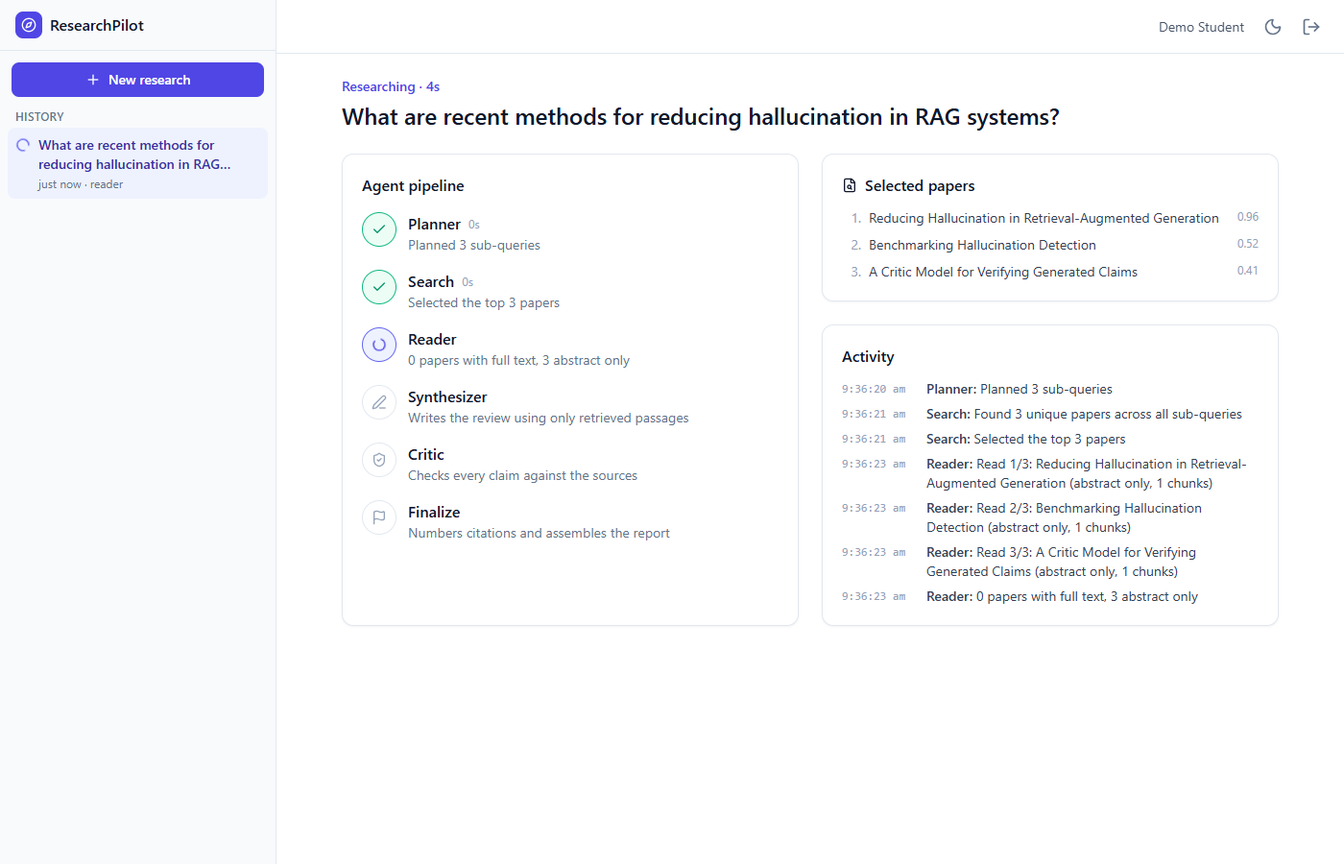
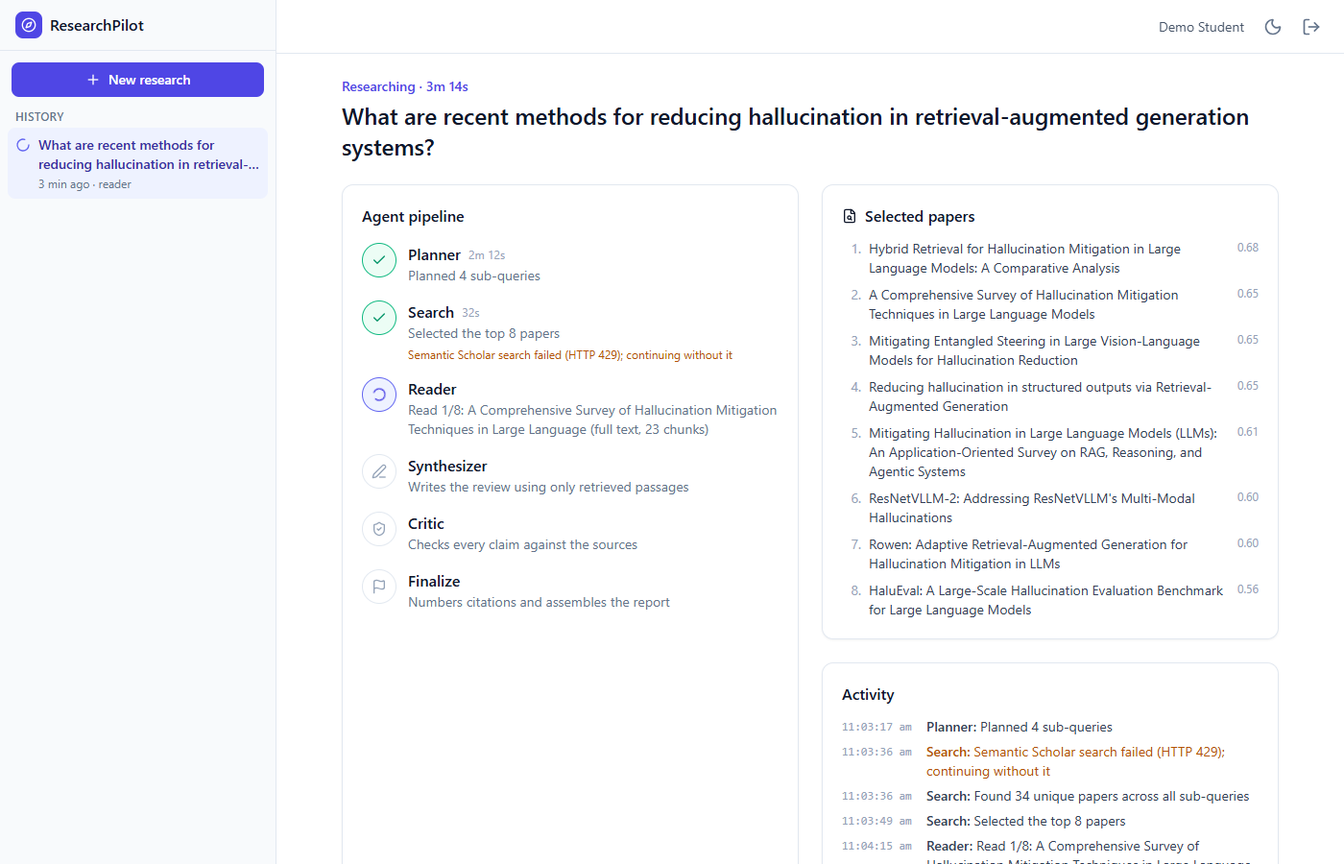
Add real-run screenshots, Gemma fallback and a consistent-model eval mode
- Replace the demo-data screenshots with a real free-tier Gemini run
  (8 arXiv papers, 37 claims checked, 89% supported, $0.00) and add its
  unedited Markdown export as docs/sample_report.md.
- Route gemma-* models to the Gemini backend and append gemma-4-31b-it
  to the free model pool; a Claude model without ANTHROPIC_API_KEY now
  fails fast with a configuration error.
- eval: --no-fallback pins every call to the chosen models, questions
  with failed model calls are recorded as incomplete (so --resume retries
  them), and the run stops cleanly once every model's daily quota is used.
- Store the fallback models in each run's settings snapshot.

diff --git a/eval/run_eval.py b/eval/run_eval.py
@@ -29,11 +29,11 @@ from pydantic import BaseModel, TypeAdapter
 from eval import EVAL_DIR
 from app.agents.graph import open_pipeline_context
 from app.config import Settings, get_settings
-from app.llm import LLM, LLMClient, LLMConfigurationError, LLMError
+from app.llm import LLM, QUOTAS, LLMClient, LLMConfigurationError, LLMError
 from app.logging_config import setup_logging
 from app.schemas import ResearchReport
 from app.services.session_store import settings_snapshot
-from eval.ablation import run_paired
+from eval.ablation import PairedRun, run_paired
 from eval.judges import judge_citations, judge_faithfulness, judge_relevance
 from eval.metrics import ArmResult, EvalRun, QuestionResult, arm_result, render_markdown, summarize
 
@@ -90,8 +90,27 @@ async def evaluate_arm(report: ResearchReport, context: Any, judge: LLM, judge_s
     return arm_result(report, citations, faithfulness, relevance, notes)
 
 
+LLM_FAILURE_MARKERS: tuple[str, ...] = ("summary extraction failed", "Critic failed", "Revision failed", "judge failed")
+
+
+def pool_exhausted(*settings_list: Settings) -> bool:
+    """True when every model configured for the pipeline and the judges has used up today's quota."""
+    models = {model for settings in settings_list for model in (settings.llm_model, *settings.llm_fallback_models)}
+    return all(QUOTAS.is_exhausted(model) for model in models)
+
+
+def llm_failures(paired: PairedRun, arms: Sequence[ArmResult]) -> list[str]:
+    """Pipeline warnings or judge notes showing that some model call failed (so the data is incomplete)."""
+    texts = [*paired.with_critic.warnings, *(note for arm in arms for note in arm.notes)]
+    return [text for text in texts if any(marker in text for marker in LLM_FAILURE_MARKERS)]
+
+
 async def evaluate_question(item: Question, settings: Settings, judge_settings: Settings) -> QuestionResult:
-    """Run the paired pipeline for one question and judge both arms."""
+    """Run the paired pipeline for one question and judge both arms.
+
+    A question whose data is incomplete because a model call failed (typically the free daily quota
+    running out) is recorded as an error, so ``--resume`` evaluates it again later.
+    """
     result = QuestionResult(id=item.id, topic=item.topic, question=item.question)
     judge = make_judge_llm(judge_settings)
     try:
@@ -101,6 +120,9 @@ async def evaluate_question(item: Question, settings: Settings, judge_settings: 
             result.without_critic = await evaluate_arm(paired.without_critic, context, judge, judge_settings)
             if not paired.draft_available:
                 result.with_critic.notes.append("no review was produced (no usable papers)")
+            failures = llm_failures(paired, [result.with_critic, result.without_critic])
+            if failures:
+                result.error = f"Incomplete - some model calls failed, re-run with --resume: {failures[0][:200]}"
     except LLMConfigurationError:
         raise
     except Exception as error:  # One broken question must not stop a multi-hour evaluation.
@@ -130,6 +152,14 @@ async def run_all(
         result = await evaluate_question(item, settings, judge_settings)
         run.questions = [existing for existing in run.questions if existing.id != item.id] + [result]
         save(run, output_dir)
+        if pool_exhausted(settings, judge_settings):
+            logger.warning(
+                "Every configured model has used up today's free quota. Stopping after %d of %d question(s); "
+                "run the same command with --resume after midnight Pacific time to continue.",
+                index,
+                len(questions),
+            )
+            break
         if result.error:
             logger.warning("[%d/%d] %s failed: %s", index, len(questions), item.id, result.error)
         elif result.with_critic and result.without_critic:
@@ -155,8 +185,13 @@ def parse_args(argv: Sequence[str] | None = None) -> argparse.Namespace:
     parser.add_argument("--output-dir", type=Path, default=EVAL_DIR, help="Where results.json/results.md go.")
     parser.add_argument("--limit", type=int, help="Only evaluate the first N questions.")
     parser.add_argument("--ids", help="Comma-separated question ids to evaluate, e.g. q01,q05.")
-    parser.add_argument("--pipeline-model", help="Claude model for the pipeline (default: LLM_MODEL).")
-    parser.add_argument("--judge-model", help="Claude model for the judges (default: the pipeline model).")
+    parser.add_argument("--pipeline-model", help="Model for the pipeline (default: LLM_MODEL).")
+    parser.add_argument("--judge-model", help="Model for the judges (default: the pipeline model).")
+    parser.add_argument(
+        "--no-fallback",
+        action="store_true",
+        help="Ignore LLM_FALLBACK_MODEL so every call uses exactly the chosen models (consistent measurements).",
+    )
     parser.add_argument("--top-n", type=int, help="Papers per question (default: TOP_N_PAPERS).")
     parser.add_argument("--resume", action="store_true", help="Skip questions already completed in results.json.")
     parser.add_argument("--yes", action="store_true", help="Do not ask for confirmation before spending API credit.")
@@ -185,6 +220,8 @@ def main(argv: Sequence[str] | None = None) -> int:
         overrides["llm_model"] = args.pipeline_model
     if args.top_n:
         overrides["top_n_papers"] = args.top_n
+    if args.no_fallback:
+        overrides["llm_fallback_model"] = None
     settings = base.model_copy(update=overrides) if overrides else base
     judge_settings = settings.model_copy(update={"llm_model": args.judge_model or settings.llm_model})
     setup_logging(settings.log_level)

diff --git a/backend/tests/test_eval.py b/backend/tests/test_eval.py
@@ -33,6 +33,7 @@ from eval.metrics import ArmResult, EvalRun, QuestionResult, render_markdown, su
 
 from app.agents.state import ClaimList, JudgementList, PipelineContext  # noqa: E402
 from app.config import Settings  # noqa: E402
+from app.llm import QUOTAS, LLMUnavailableError  # noqa: E402
 from app.services.vector_store import VectorStore  # noqa: E402
 from tests.builders import FALSE_SENTENCE_START, claims_handler, judgement_handler, make_context  # noqa: E402
 from tests.fakes import FakeLLM, prompt_text  # noqa: E402
@@ -246,6 +247,48 @@ def test_cli_writes_results_and_resumes(offline_eval: None, tmp_path: Path) -> N
 
     assert run_eval.main(["--limit", "2", "--yes", "--resume", "--output-dir", str(tmp_path)]) == 0
     assert len(json.loads((tmp_path / "results.json").read_text(encoding="utf-8"))["questions"]) == 2
+
+
+def test_incomplete_questions_are_marked_for_resume(
+    offline_eval: None, tmp_path: Path, monkeypatch: pytest.MonkeyPatch
+) -> None:
+    """If a judge call fails (e.g. quota ran out), the question is an error so --resume redoes it."""
+    failing_judge = judge_llm()
+    failing_judge.handlers[CitationVerdictList] = lambda call: LLMUnavailableError("every configured model used up")
+    monkeypatch.setattr(run_eval, "make_judge_llm", lambda settings: failing_judge)
+
+    assert run_eval.main(["--limit", "1", "--yes", "--output-dir", str(tmp_path)]) == 0
+
+    question = json.loads((tmp_path / "results.json").read_text(encoding="utf-8"))["questions"][0]
+    assert question["error"].startswith("Incomplete")
+    assert "citation judge failed" in question["error"]
+
+
+def test_evaluation_stops_when_every_model_is_out_of_quota(
+    offline_eval: None, tmp_path: Path, keyed_settings: Settings
+) -> None:
+    """Once the whole model pool is exhausted for the day, the runner stops instead of failing every question."""
+    QUOTAS.mark_exhausted(keyed_settings.llm_model)
+
+    assert run_eval.main(["--limit", "3", "--yes", "--output-dir", str(tmp_path)]) == 0
+
+    assert len(json.loads((tmp_path / "results.json").read_text(encoding="utf-8"))["questions"]) == 1
+
+
+def test_no_fallback_records_a_single_model(
+    offline_eval: None, tmp_path: Path, monkeypatch: pytest.MonkeyPatch
+) -> None:
+    """--no-fallback removes the model pool, and the saved settings show exactly which models were used."""
+    monkeypatch.setenv("LLM_FALLBACK_MODEL", "gemini-3.6-flash")
+    from app.config import get_settings
+
+    get_settings.cache_clear()
+    assert run_eval.main(["--limit", "1", "--yes", "--no-fallback", "--pipeline-model", "claude-sonnet-5",
+                          "--output-dir", str(tmp_path)]) == 0
+
+    data = json.loads((tmp_path / "results.json").read_text(encoding="utf-8"))
+    assert data["pipeline_model"] == "claude-sonnet-5"
+    assert data["settings"]["llm_fallback_models"] == []
 
 
 def test_cli_selects_questions_by_id(offline_eval: None, tmp_path: Path) -> None:

diff --git a/backend/app/llm.py b/backend/app/llm.py
@@ -36,7 +36,7 @@ import httpx
 import pydantic
 from pydantic import BaseModel
 
-from app.config import Effort, Settings, get_settings
+from app.config import GOOGLE_MODEL_PREFIXES, Effort, Settings, get_settings
 from app.services import http_utils
 from app.services.http_utils import RateLimiter
 
@@ -222,7 +222,7 @@ def model_prices(model: str, settings: Settings) -> tuple[float, float] | None:
     """USD per million (input, output) tokens: ``.env`` overrides, else free for Gemini, else the Claude table."""
     if settings.llm_input_cost_per_mtok is not None and settings.llm_output_cost_per_mtok is not None:
         return settings.llm_input_cost_per_mtok, settings.llm_output_cost_per_mtok
-    if model.startswith("gemini"):
+    if model.startswith(GOOGLE_MODEL_PREFIXES):
         return FREE_TIER_PRICES
     for family in sorted(MODEL_PRICES, key=len, reverse=True):
         if model == family or model.startswith(f"{family}-"):
@@ -358,6 +358,8 @@ class _AnthropicBackend:
             self.client = client
             return
         key = settings.anthropic_api_key
+        if key is None or not key.get_secret_value().strip():
+            raise LLMConfigurationError("No Anthropic API key found. Set ANTHROPIC_API_KEY in the .env file.")
         try:
             self.client = anthropic.AsyncAnthropic(
                 api_key=key.get_secret_value() if key else None,

diff --git a/backend/app/config.py b/backend/app/config.py
@@ -33,6 +33,8 @@ LogLevel = Literal["DEBUG", "INFO", "WARNING", "ERROR", "CRITICAL"]
 Effort = Literal["low", "medium", "high", "xhigh", "max"]
 
 MIN_PRODUCTION_SECRET_LENGTH = 32
+# Model name prefixes served by Google's Gemini API (Gemini and the open Gemma models).
+GOOGLE_MODEL_PREFIXES: tuple[str, ...] = ("gemini", "gemma")
 
 _OPTIONAL_FIELDS: tuple[str, ...] = (
     "anthropic_api_key",
@@ -202,8 +204,8 @@ class Settings(BaseSettings):
 
     @property
     def llm_provider(self) -> Literal["anthropic", "gemini"]:
-        """Which API serves ``LLM_MODEL``: Gemini for ``gemini-*`` models, otherwise Anthropic."""
-        return "gemini" if self.llm_model.strip().lower().startswith("gemini") else "anthropic"
+        """Which API serves ``LLM_MODEL``: Google's Gemini API for ``gemini-*``/``gemma-*`` models, else Anthropic."""
+        return "gemini" if self.llm_model.strip().lower().startswith(GOOGLE_MODEL_PREFIXES) else "anthropic"
 
     @property
     def llm_key_name(self) -> str:

diff --git a/backend/tests/test_llm_gemini.py b/backend/tests/test_llm_gemini.py
@@ -65,6 +65,16 @@ def test_provider_is_chosen_from_the_model_name(test_settings: Settings) -> None
     assert test_settings.model_copy(update={"llm_model": "gemini-3.8-flash"}).llm_configured is False
 
 
+def test_gemma_models_are_served_by_the_gemini_api(test_settings: Settings) -> None:
+    """Google's open Gemma models use the same API, key and free pricing as Gemini."""
+    gemma = gemini_settings(test_settings, model="gemma-4-31b-it")
+
+    assert (gemma.llm_provider, gemma.llm_key_name) == ("gemini", "GEMINI_API_KEY")
+    assert model_prices("gemma-4-31b-it", gemma) == (0.0, 0.0)
+    assert gemini_thinking_level("gemma-4-31b-it", "high") is None
+    assert LLMClient(gemma, client=FakeGemini()).provider == "gemini"
+
+
 def test_gemini_free_tier_costs_nothing(test_settings: Settings) -> None:
     """Gemini usage is priced at $0 unless paid-tier prices are configured."""
     assert model_prices("gemini-3.8-flash", test_settings) == (0.0, 0.0)

diff --git a/backend/tests/test_llm.py b/backend/tests/test_llm.py
@@ -243,6 +243,12 @@ async def test_sdk_errors_are_translated(
         await client.structured(stage="planner", system="s", messages=[], output_model=Answer)
 
 
+def test_missing_anthropic_key_is_a_configuration_error(test_settings: Settings) -> None:
+    """A Claude model without ANTHROPIC_API_KEY fails fast with a clear message (not a raw SDK TypeError)."""
+    with pytest.raises(LLMConfigurationError, match="ANTHROPIC_API_KEY"):
+        LLMClient(settings_for(test_settings, "claude-opus-5"))
+
+
 def test_real_client_is_built_from_settings(test_settings: Settings) -> None:
     """Without an injected client, an AsyncAnthropic with the configured retries is created."""
     keyed = test_settings.model_copy(update={"anthropic_api_key": SecretStr("sk-ant-test"), "llm_max_retries": 4})

diff --git a/backend/app/services/session_store.py b/backend/app/services/session_store.py
@@ -37,6 +37,7 @@ def settings_snapshot(settings: Settings) -> dict[str, Any]:
     """The settings that shape a run, stored with it for reproducibility."""
     return {
         "llm_model": settings.llm_model,
+        "llm_fallback_models": settings.llm_fallback_models,
         "llm_effort": settings.llm_effort,
         "enable_critic": settings.enable_critic,
         "max_revisions": settings.max_revisions,

diff --git a/docs/sample_report.md b/docs/sample_report.md
@@ -1,0 +1,60 @@
+<!-- Unedited Markdown export of a real ResearchPilot run (free Gemini tier, arXiv only, 8 papers read in full,
+     17 min, $0.00; Critic: 33 of 37 claims supported after one revision). Shown in docs/screenshots/. -->
+
+# Recent Advancements in Hallucination Mitigation for Retrieval-Augmented Generation Systems
+
+> **Research question:** What are recent methods for reducing hallucination in retrieval-augmented generation systems?
+
+## Executive summary
+
+Recent advancements in mitigating hallucinations in Large Language Models (LLMs) focus on optimizing Retrieval-Augmented Generation (RAG) through hybrid retrieval, adaptive triggering, and agentic reasoning [1, 2, 3]. Hybrid methods such as RetHyb-RRF integrate lexical and semantic retrieval to provide more relevant context, thereby reducing hallucination rates compared to standalone sparse or dense retrievers [1]. Agentic systems further enhance reliability by using modular agents to isolate hallucinations and prevent error propagation [2]. While these methods improve grounding, performance can still vary on domain-specific datasets and complex reasoning paths [1, 2].
+
+## State-of-the-Art Mitigation Methods
+
+Current state-of-the-art methods employ advanced retrieval architectures and iterative refinement to address factual errors. The RetHyb-RRF module utilizes WordNet for query expansion and dynamic weighting to fuse results from multiple retrieval types [1]. This approach emphasizes high-quality retrieval as a primary mechanism for providing relevant context and minimizing hallucinations in RAG systems [1]. Other frameworks, such as LLM-Augmenter, utilize Plug-and-Play modules to iteratively revise candidate responses based on feedback and external evidence chains [4].
+
+Adaptive and agentic strategies refine the generation process by introducing dynamic intervention layers. Agentic systems, such as Multi-Agent RAG (MA-RAG), introduce multiple modular agents including a planner and evidence extractor to integrate task decomposition with evidence retrieval [2]. In multimodal domains, post-hoc RAG components perform retrieval over ad-hoc knowledge bases to assess and revise generated captions for improved faithfulness [5].
+
+## Benchmarks and Evaluation Datasets
+
+Standardized benchmarks are critical for quantifying hallucination rates across diverse tasks. HaluEval is a large-scale benchmark constructed to evaluate how models struggle to recognize content that conflicts with context [6]. Other core evaluation sets include HaluBench, RAGTruth, and TruthfulQA, which assess factual grounding and truthfulness [1, 2]. Domain-specific evaluation is often conducted on specialized datasets like FinanceBench, PubMed, and CovidQA, which present higher difficulty for standard retrievers [1].
+
+For multimodal and structured output tasks, researchers utilize specialized environments. Vision-language models are evaluated using benchmarks like POPE, MSCOCO, GQA, and AMBER to validate effectiveness across diverse generative and discriminative settings [7]. In structured output tasks, RAG is employed to improve the quality of JSON workflows generated from natural language requirements [8]. These diverse benchmarks reveal that approximately 19.5% of standard ChatGPT responses were found to contain hallucinations [6].
+
+## Comparative Performance Analysis
+
+Comparative studies demonstrate that hybrid retrieval systems significantly outperform traditional single-method retrievers. The RetHyb-RRF retriever outperformed both sparse and dense alternatives on the HaluBenchorig dataset [1]. On the HaluEval benchmark, this hybrid approach improved accuracy to 92.00% compared to 56.00% for sparse retrievers [1]. Additionally, RAG implementation has been shown to significantly reduce hallucination and allow for better generalization to out-of-domain settings in structured output tasks [8].
+
+Adaptive methods provide competitive accuracy while improving computational efficiency. The Rowen-Hybrid framework achieved a GPT-Judge score of 59.34 on TruthfulQA and an accuracy of 75.60 on StrategyQA, outperforming baseline consistency-based methods [3]. Rowen achieves these results with a minimal number of retrieval calls, highlighting the efficiency of adaptive retrieval [3]. In the multimodal space, faithfulness scores on ActivityNet Captions increased from 34.2% before mitigation to 92.7% after applying post-hoc RAG interventions [5].
+
+## Open Problems and Limitations
+
+Despite improvements, existing RAG systems face substantial challenges in domain-specific and complex reasoning contexts. Hybrid retrievers exhibit poorer performance on challenging datasets like FinanceBench, where RetHyb-RRF recorded its highest rejection rate of 32.00% [1]. Furthermore, deep reasoning chains can lead to 'overthinking,' where models dwell on irrelevant paths and generate redundant or newly hallucinated content [2]. Dynamically regulating this process requires balancing depth and efficiency to avoid hallucinations stemming from excessive reasoning [2].
+
+Technical and architectural limitations also persist. While logit output values can help identify hallucinations, some models available through API calls do not provide them, though they are considered a supplementary rather than a necessary source for detection [4]. In multimodal scenarios, latent space steering methods like MESA must balance steering strength, as excessive steering can impair content coverage and semantic completeness [7]. Additionally, complex multi-agent mechanisms must be carefully designed to isolate hallucinations and prevent their propagation during the reasoning process [2].
+
+## Comparison of key papers
+
+| Ref | Paper | Year | Method | Dataset | Key result |
+|---|---|---|---|---|---|
+| [1] | Hybrid Retrieval for Hallucination Mitigation in Large Language Models: A Comparative Analysis | 2025 | RetHyb-RRF (Hybrid retrieval with WordNet and RRF) | HaluBench, HaluEval, FinanceBench | MAP@3 of 0.897 on HaluBenchorig; 6% hallucination rate on HaluEval. |
+| [3] | Rowen: Adaptive Retrieval-Augmented Generation for Hallucination Mitigation in LLMs | 2024 | Rowen (Adaptive RAG with consistency-based detection) | TruthfulQA, StrategyQA | 59.34 GPT-Judge score; reduced average retrieval calls to as low as 0.5. |
+| [5] | ResNetVLLM-2: Addressing ResNetVLLM's Multi-Modal Hallucinations | 2025 | ResNetVLLM-2 (Faithfulness detection + post-hoc RAG) | ActivityNet Captions, ActivityNet-QA | Improved faithfulness score from 34.2% to 92.7% (97.9% in some reports). |
+| [6] | HaluEval: A Large-Scale Hallucination Evaluation Benchmark for Large Language Models | 2023 | HaluEval (Sampling-then-filtering for benchmark creation) | HaluEval (35,000 samples) | Identified that 19.5% of ChatGPT responses contain hallucinations. |
+| [7] | Mitigating Entangled Steering in Large Vision-Language Models for Hallucination Reduction | 2026 | MESA (Latent space steering with controlled perturbations) | POPE, MSCOCO, AMBER | 90.27% Accuracy on POPE MSCOCO; reduced CHAIR to 6.4 on AMBER. |
+| [8] | Reducing hallucination in structured outputs via Retrieval-Augmented Generation | 2024 | RAG with fine-tuned siamese transformer encoder | Internal IT domain datasets (JSON workflows) | Reduced hallucination rate from 21% to <7.5% for steps and <4.5% for tables. |
+
+## Verification
+
+37 claims checked against the source passages: 33 supported, 1 partially supported, 3 unsupported (3 removed from the text).
+
+## References
+
+[1] Chandana Sree Mala, Gizem Gezici, Fosca Giannotti (2025). Hybrid Retrieval for Hallucination Mitigation in Large Language Models: A Comparative Analysis. *arXiv (cs.IR)*. https://arxiv.org/abs/2504.05324v1
+[2] Yihan Li, Xiyuan Fu, Ghanshyam Verma et al. (2025). Mitigating Hallucination in Large Language Models (LLMs): An Application-Oriented Survey on RAG, Reasoning, and Agentic Systems. *arXiv (cs.CL)*. https://arxiv.org/abs/2510.24476v1
+[3] Hanxing Ding, Liang Pang, Zihao Wei et al. (2024). Rowen: Adaptive Retrieval-Augmented Generation for Hallucination Mitigation in LLMs. *arXiv (cs.CL)*. https://arxiv.org/abs/2402.10612v3
+[4] S. M Towhidul Islam Tonmoy, S M Mehedi Zaman, Vinija Jain et al. (2024). A Comprehensive Survey of Hallucination Mitigation Techniques in Large Language Models. *arXiv (cs.CL)*. https://arxiv.org/abs/2401.01313v3
+[5] Ahmad Khalil, Mahmoud Khalil, Alioune Ngom (2025). ResNetVLLM-2: Addressing ResNetVLLM's Multi-Modal Hallucinations. *arXiv (cs.CV)*. https://arxiv.org/abs/2504.14429v1
+[6] Junyi Li, Xiaoxue Cheng, Wayne Xin Zhao et al. (2023). HaluEval: A Large-Scale Hallucination Evaluation Benchmark for Large Language Models. *arXiv (cs.CL)*. https://arxiv.org/abs/2305.11747v3
+[7] Yuanhong Zhang, Zhaoyang Wang, Xin Zhang et al. (2026). Mitigating Entangled Steering in Large Vision-Language Models for Hallucination Reduction. *arXiv (cs.CV)*. https://arxiv.org/abs/2604.07914v1
+[8] Patrice Béchard, Orlando Marquez Ayala (2024). Reducing hallucination in structured outputs via Retrieval-Augmented Generation. *2024.naacl-industry.19*. https://arxiv.org/abs/2404.08189v1

diff --git a/README.md b/README.md
@@ -46,8 +46,10 @@ flowchart LR
 
 ## Screenshots
 
-> These were captured from an end-to-end browser test of the real UI running against the **offline demo pipeline**
-> (mocked language model), so the report text is sample data. Replace them with screenshots of a real run for your report.
+> A real run on the free Gemini tier: the question *"What are recent methods for reducing hallucination in
+> retrieval-augmented generation systems?"*, 8 arXiv papers read in full, 17 minutes, $0.00. The Critic checked 38 claims
+> in the first draft (27 supported, 10 unsupported); after one revision 33 of 37 were supported (89%) and the 3 still
+> unsupported were removed. Semantic Scholar rate-limits requests without an API key, so this run used arXiv only.
 
 | Dashboard | Live agent progress |
 |---|---|
@@ -70,7 +72,7 @@ flowchart LR
 | Frontend | Next.js 14 (App Router), React 18, TypeScript, Tailwind CSS, dark mode |
 | Export | Markdown and PDF (ReportLab) |
 | Ops | Docker, docker-compose; Vercel (frontend) + Railway/Render (backend) |
-| Quality | 347 backend tests (pytest), 30 frontend tests (Vitest), ESLint, strict TypeScript |
+| Quality | 352 backend tests (pytest), 30 frontend tests (Vitest), ESLint, strict TypeScript |
 
 ## Project structure
 
@@ -97,7 +99,7 @@ researchpilot/
 │   ├── src/lib/               API client, SSE parser, progress/citation helpers (+ Vitest tests)
 │   └── Dockerfile
 ├── eval/                      25 benchmark questions, judges, paired Critic ablation, run_eval CLI
-├── docs/                      architecture.md, deployment.md, screenshots/, report/viva material
+├── docs/                      architecture.md, deployment.md, sample_report.md, screenshots/, report/viva material
 ├── docker-compose.yml, render.yaml, .env.example
 └── README.md
 ```
@@ -158,7 +160,7 @@ All settings live in `.env` (see [.env.example](.env.example) for every option w
 |---|---|---|
 | `GEMINI_API_KEY` / `ANTHROPIC_API_KEY` | – | Key for the provider of `LLM_MODEL`; required for research, chat and evaluation. |
 | `LLM_MODEL` | `gemini-3.8-flash` (in `.env.example`) | Model used by every agent. `gemini-*` uses Google's free tier; `claude-*` uses paid Anthropic models (e.g. `claude-opus-5`, or `claude-sonnet-5` at ~40% of its price). |
-| `LLM_FALLBACK_MODEL` | seven free Gemini models (in `.env.example`) | Comma-separated models tried in order when the main one is overloaded (HTTP 503), rate limited, or out of its daily free quota (HTTP 429). Exhausted models are skipped until the quota resets, so each model's separate free quota adds up. |
+| `LLM_FALLBACK_MODEL` | seven free Gemini models + Gemma (in `.env.example`) | Comma-separated models tried in order when the main one is overloaded (HTTP 503), rate limited, or out of its daily free quota (HTTP 429). Exhausted models are skipped until the quota resets, so each model's separate free quota adds up. |
 | `LLM_REQUESTS_PER_MINUTE` | `5` (in `.env.example`) | Paces calls per model to stay under free-tier per-minute limits (`0` = unlimited). |
 | `LLM_EFFORT` | `high` | Reasoning effort (`low` … `max`); simple extraction calls automatically use at most `medium`. |
 | `JWT_SECRET_KEY` | random per process | Set it, or logins reset on every restart. Required in production. |
@@ -213,7 +215,7 @@ costs one full pipeline run plus judging, so start with `--limit 2` and check th
 ## Testing
 
 ```powershell
-cd backend;  pytest                                              # 347 offline tests
+cd backend;  pytest                                              # 352 offline tests
 cd backend;  $env:RP_RUN_INTEGRATION="1"; pytest -m integration  # live arXiv / Semantic Scholar / PDF / model tests
 cd frontend; npm test; npm run lint; npm run typecheck; npm run build
 ```
